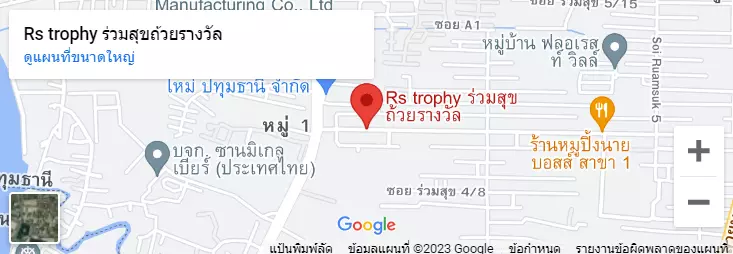
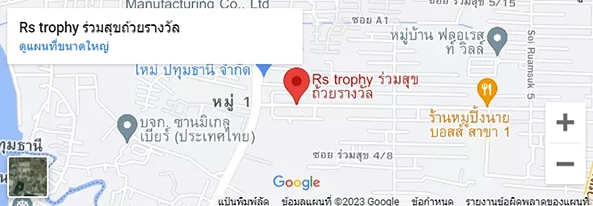
resize

diff --git a/components/AppFooter.vue b/components/AppFooter.vue
@@ -1,32 +1,15 @@
 <template>
   <!-- Social -->
-  <div
-    class="mx-auto rounded-t-xl shadow bg-gray-900 sticky bottom-0 w-full py-1 z-50"
-  >
-    <div
-      class="mx-auto max-w-screen-xl px-3 flex justify-center items-center w-full h-full"
-    >
+  <div class="mx-auto rounded-t-xl shadow bg-gray-900 sticky bottom-0 w-full py-1 z-50">
+    <div class="mx-auto max-w-screen-xl px-3 flex justify-center items-center w-full h-full">
       <div class="flex-shrink-0 flex items-center space-x-4 md:space-x-0">
         <template v-for="(social, index) in socials" :key="index">
-          <a
-            :aria-label="social.alt"
-            :href="social.href"
-            target="_blank"
-            rel="noopener noreferrer"
-          >
-            <img
-              loading="lazy"
-              :src="social.src"
-              :alt="social.alt"
-              :title="social.alt"
-              width="40px"
-              height="40px"
-              :class="{
-                scaleup: true,
-                'lock md:hidden':
-                  social.alt === 'phone logo' || social.alt === 'gmail logo',
-              }"
-            />
+          <a :aria-label="social.alt" :href="social.href" target="_blank" rel="noopener noreferrer">
+            <img loading="lazy" :src="social.src" :alt="social.alt" :title="social.alt" width="40px" height="40px" :class="{
+              scaleup: true,
+              'lock md:hidden':
+                social.alt === 'phone logo' || social.alt === 'gmail logo',
+            }" />
           </a>
         </template>
       </div>
@@ -40,15 +23,8 @@
           <p class="text-center p-2 font-bold text-2xl text-white">
             สินค้าอื่นๆ
           </p>
-          <div
-            v-for="contact in contacts"
-            :key="contact.name"
-            class="p-1 scaleup"
-          >
-            <a
-              class="font-bold text-xl text-white scaleup"
-              :href="contact.href"
-            >
+          <div v-for="contact in contacts" :key="contact.name" class="p-1 scaleup">
+            <a class="font-bold text-xl text-white scaleup" :href="contact.href">
               {{ contact.name }}
             </a>
           </div>
@@ -64,18 +40,9 @@
       </div>
       <!-- Goole Map -->
       <div class="rounded-lg w-full h-60 p-4 scaleup">
-        <a
-          aria-label="RS AWARD GOOGLE MAP"
-          href="https://maps.app.goo.gl/U1C7R9aiBJHprLfx8"
-        >
-          <img
-            class="mx-auto"
-            alt="RS AWARD GOOGLE MAP"
-            title="RS AWARD GOOGLE MAP"
-            src="/panel/map.webp"
-            width="733px"
-            height="254px"
-        /></a>
+        <a aria-label="RS AWARD GOOGLE MAP" href="https://maps.app.goo.gl/U1C7R9aiBJHprLfx8">
+          <img class="mx-auto" alt="RS AWARD GOOGLE MAP" title="RS AWARD GOOGLE MAP" src="/panel/map.webp" width="593px"
+            height="206px" /></a>
       </div>
     </div>
     <!-- Copy Right -->
